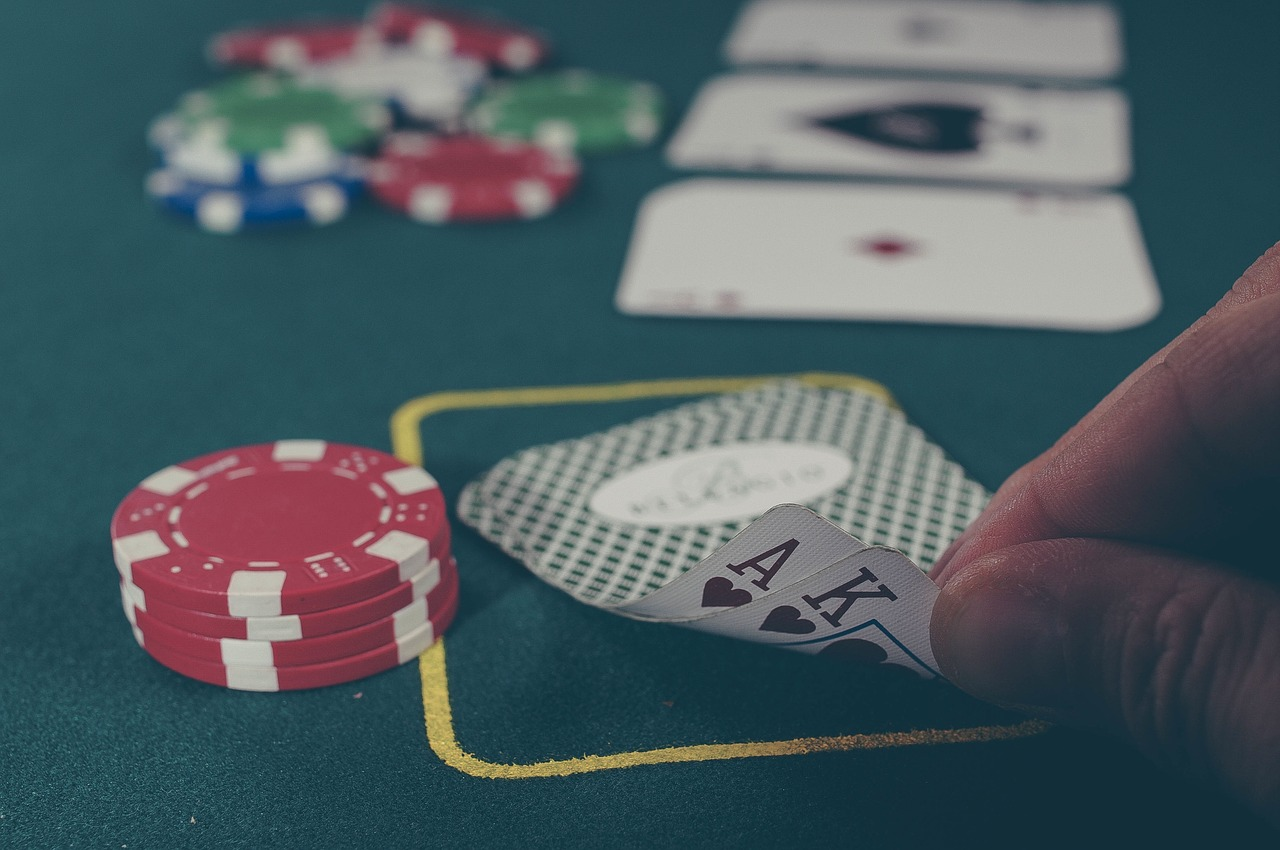
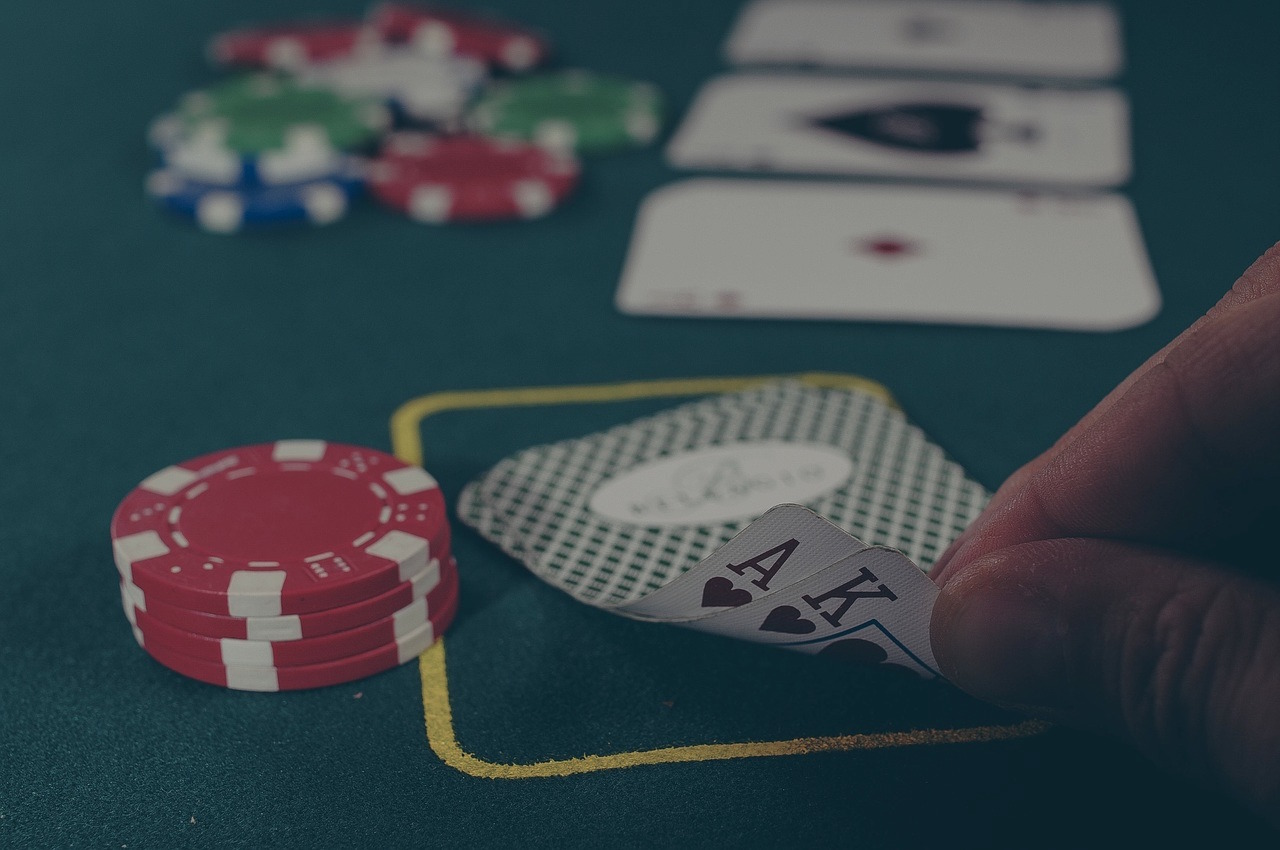
Small refactoring

diff --git a/index.html b/index.html
@@ -68,7 +68,7 @@
                             <img src="images/logo.png" alt="">
                         </a>
                         <h2>Get better at poker.</br>Own your friends at home games.</h2>
-                        <p>Only 5 minutes per day increases your intuition tremendously</p>
+                        <p>Only 5 minutes per day can put you ahead of competition</p>
                         <div class="download-btn">
                             <a href="https://play.google.com/store/apps/details?id=com.techstonia.pokerquiz" class="andriod">
                                 <img src="images/andriod-button.png" alt="">

diff --git a/css/main.css b/css/main.css
@@ -66,7 +66,7 @@ header .block h2 {
 header .block p {
   margin-bottom: 27px;
   margin-top: 0;
-  color: #383838;
+  color: #fff;
 }
 header .block .download-btn a {
   display: inline-block;
